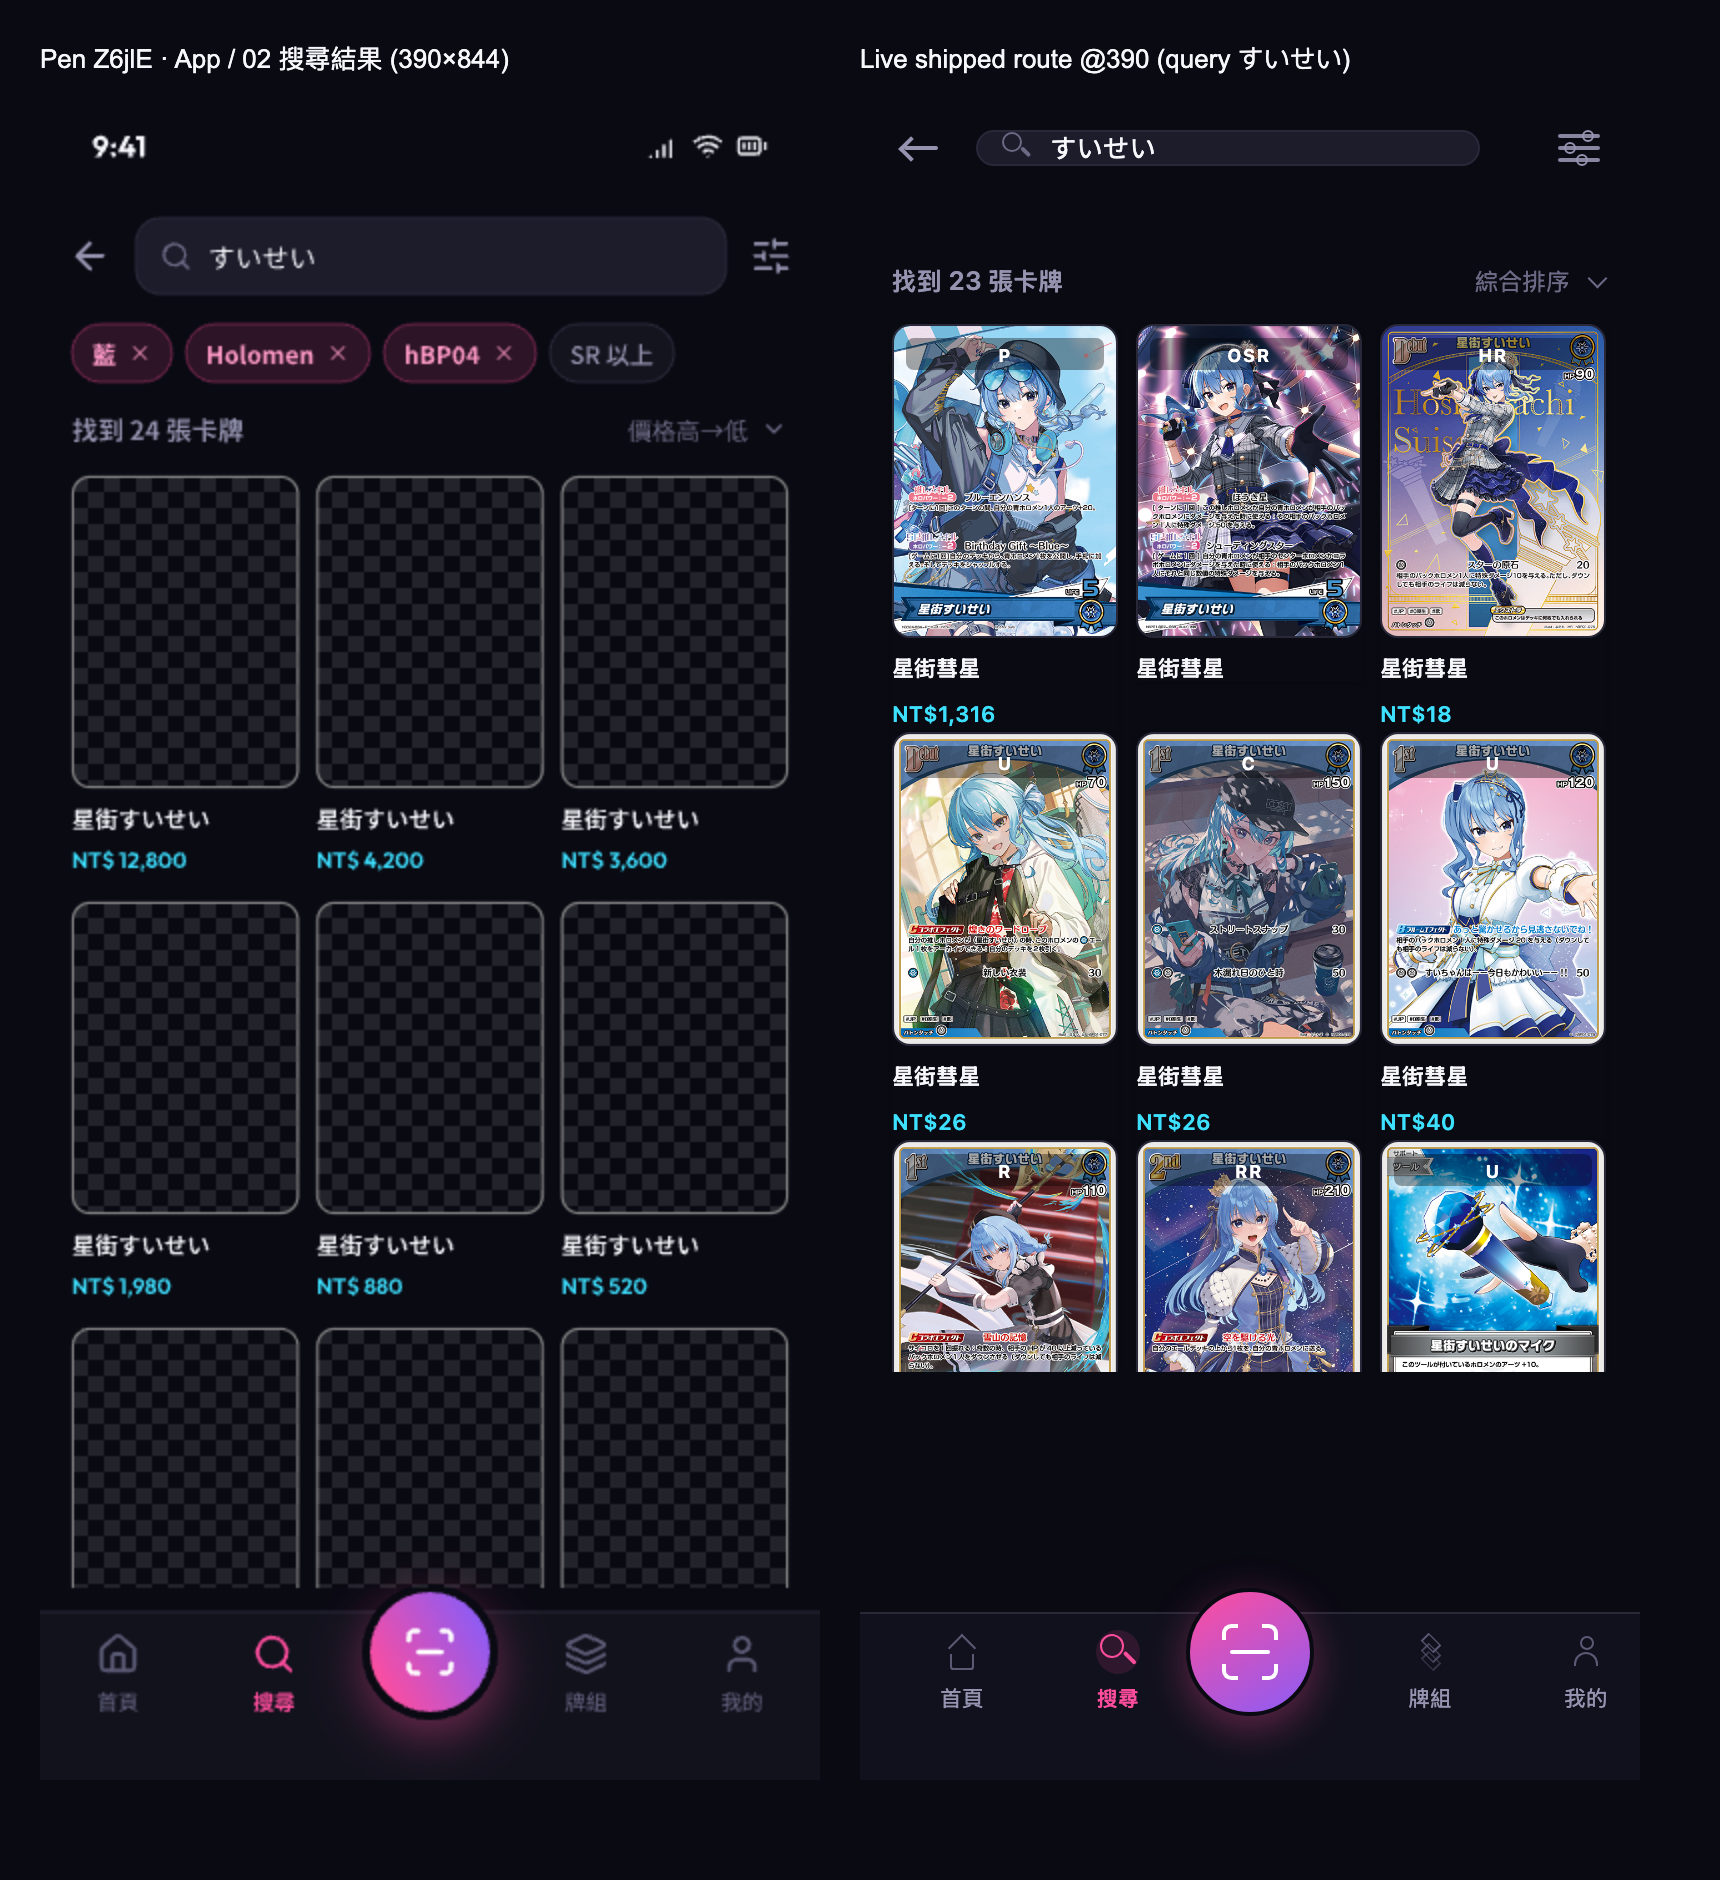
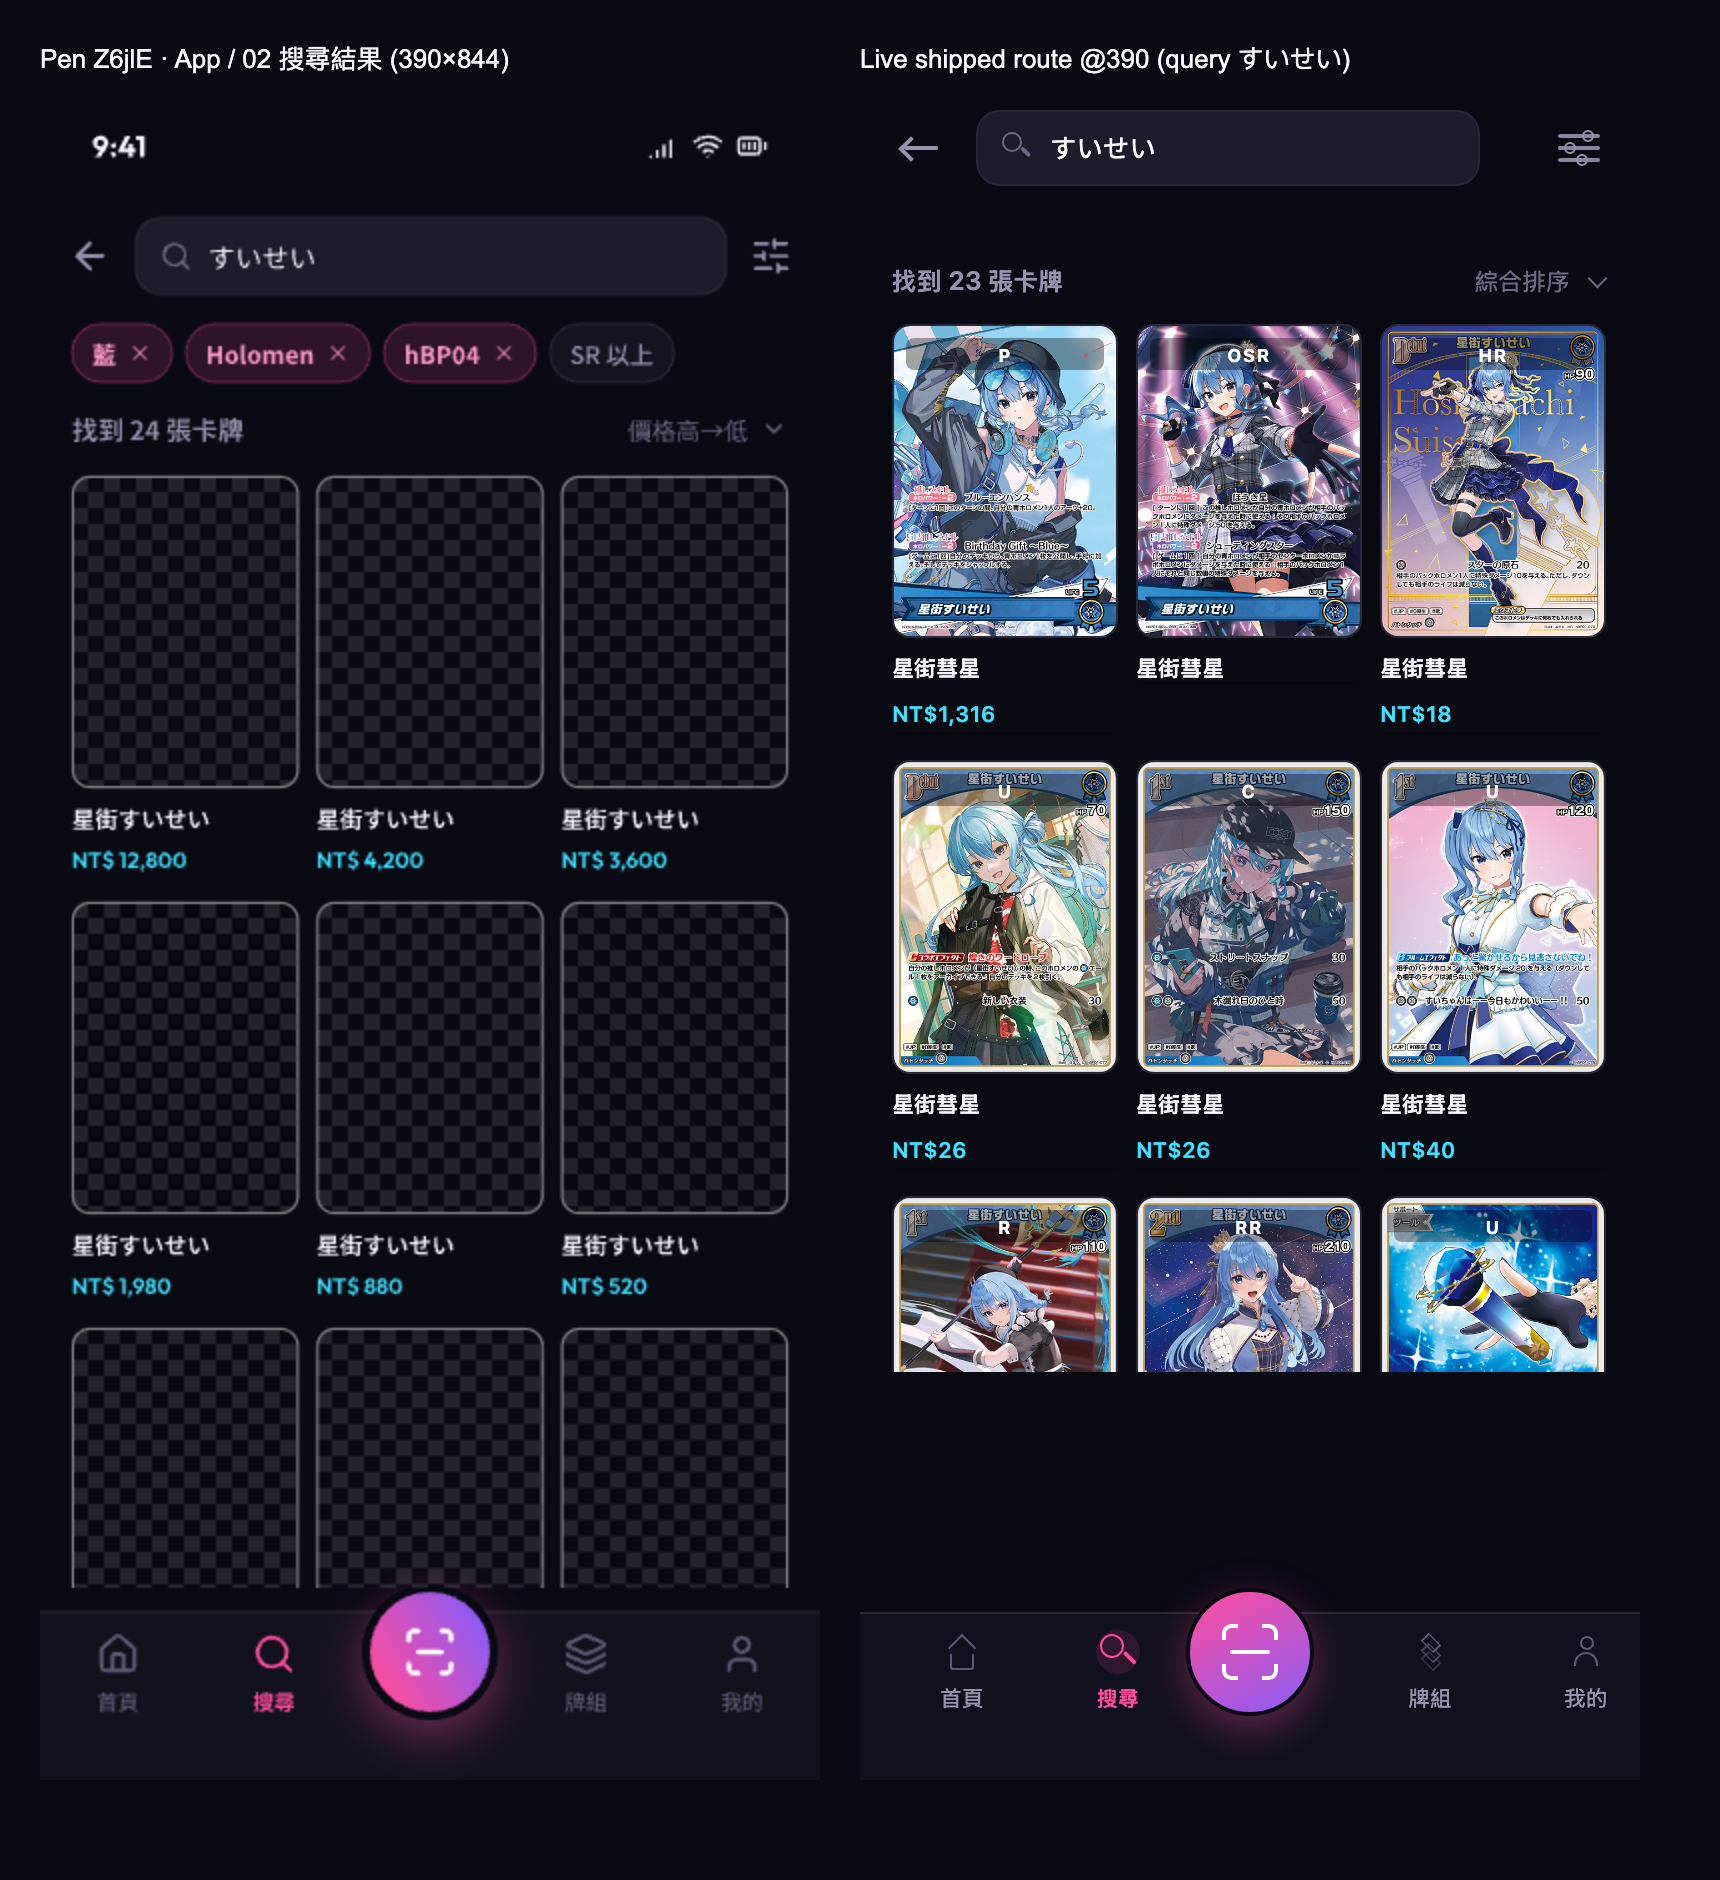
fix(DIC-1427): real-browser geometry gate, CI wiring, reproducible filter evidence (CR corrections)
Mac-Codex CR findings on f0c828d36, all three addressed:

1. Real measured vertical/placement assertions. New
   scripts/test-dic1427-search-pen-geometry.mjs renders the REAL
   SearchResultsScreen (seeded real-shaped dataset) to a standalone
   fixture — the established render-preview pattern — then measures
   getBoundingClientRect in real Chrome at 390×844 and asserts: 3×113px
   rows with Pen 9px x-gaps; wrapper HUGS the tile (≤4px slack, height
   in [180,235]); row pitch 213±30 with inter-row gaps in [6,26] (no
   giant blank rows); art aspect 156:112; search field h38 centered in
   the 56px app bar with the sliders affordance on the right edge; count
   left / sort right on one row above the grid; tab bar hugging the
   frame bottom with the 64×64 scan FAB centered and popping 12±6 above
   the bar; grid actually filling the viewport; no horizontal overflow.
   Mutation-proofed on this head: `height: 358` on every grid wrapper →
   FAILS (`wrapper height 358.0 outside the Pen tile envelope`); FAB
   displaced to top:120 → FAILS (`FAB must pop ABOVE the bar top`).
   Both mutations reverted; suite green on clean code.

   The suite immediately caught a REAL shipped defect: `flex: 1` on the
   search field (flex-basis 0% in the column-direction center slot)
   collapsed it to 18px on the live route. Fixed with alignSelf:
   'stretch' + fixed Pen h38. Also added the Pen 14px row gap
   (SpR0/OFt50) the tile grid was missing.
[…]

Changed region(s): [[0.493, 0.3702, 0.9552, 0.7404]]

diff --git a/src/screens/SearchResultsScreen.tsx b/src/screens/SearchResultsScreen.tsx
@@ -683,7 +683,14 @@ export default function SearchResultsScreen({ route, navigation }: any) {
           data={visible}
           keyExtractor={(item) => item.id}
           numColumns={numColumns}
-          columnWrapperStyle={numColumns > 1 ? { gap: gridGap } : undefined}
+          // Pen Z6jlE row pitch: 14px between tile rows (spacer nodes
+          // SpR0/OFt50). CardListItem carries its own 12px marginBottom, so
+          // the extra row margin only applies to the mobile tile grid.
+          columnWrapperStyle={
+            numColumns > 1
+              ? { gap: gridGap, marginBottom: useTileGrid ? MOBILE_ROW_GAP : 0 }
+              : undefined
+          }
           ListHeaderComponent={listHeader}
           renderItem={({ item }) => (
             <View style={gridItemStyle} testID="search-result-grid-item">
@@ -885,6 +892,7 @@ const LIST_PADDING_X = 16;
 const GRID_GAP = 12;
 const MOBILE_GRID_COLUMNS = 3;
 const MOBILE_GRID_GAP = 9;
+const MOBILE_ROW_GAP = 14;
 // Pen chip label tint (nodes AFVm9/Fx6XO/lAz8y — #FF9AC8 on #FF4D9D24).
 const CHIP_ACCENT_FG = '#FF9AC8';
 const CHIP_ACCENT_BG = PALETTE.accent + '24';
@@ -895,6 +903,7 @@ export const SEARCH_RESULTS_LAYOUT = {
   gridGap: GRID_GAP,
   mobileColumns: MOBILE_GRID_COLUMNS,
   mobileGridGap: MOBILE_GRID_GAP,
+  mobileRowGap: MOBILE_ROW_GAP,
   desktopMaxWidth: 1100,
 } as const;
 
@@ -926,7 +935,12 @@ const shellStyles = StyleSheet.create({
     marginLeft: -6,
   },
   searchField: {
-    flex: 1,
+    // No `flex: 1` here: inside the app bar's column-direction center slot,
+    // flex-basis 0% would override the fixed height and collapse the field
+    // to its 18px content (the regression the DIC-1427 geometry suite
+    // caught on the real route). Width comes from the slot's cross-axis
+    // stretch; height stays the Pen 38.
+    alignSelf: 'stretch',
     height: 38,
     borderRadius: RADII.md,
     backgroundColor: PALETTE.appElev,
